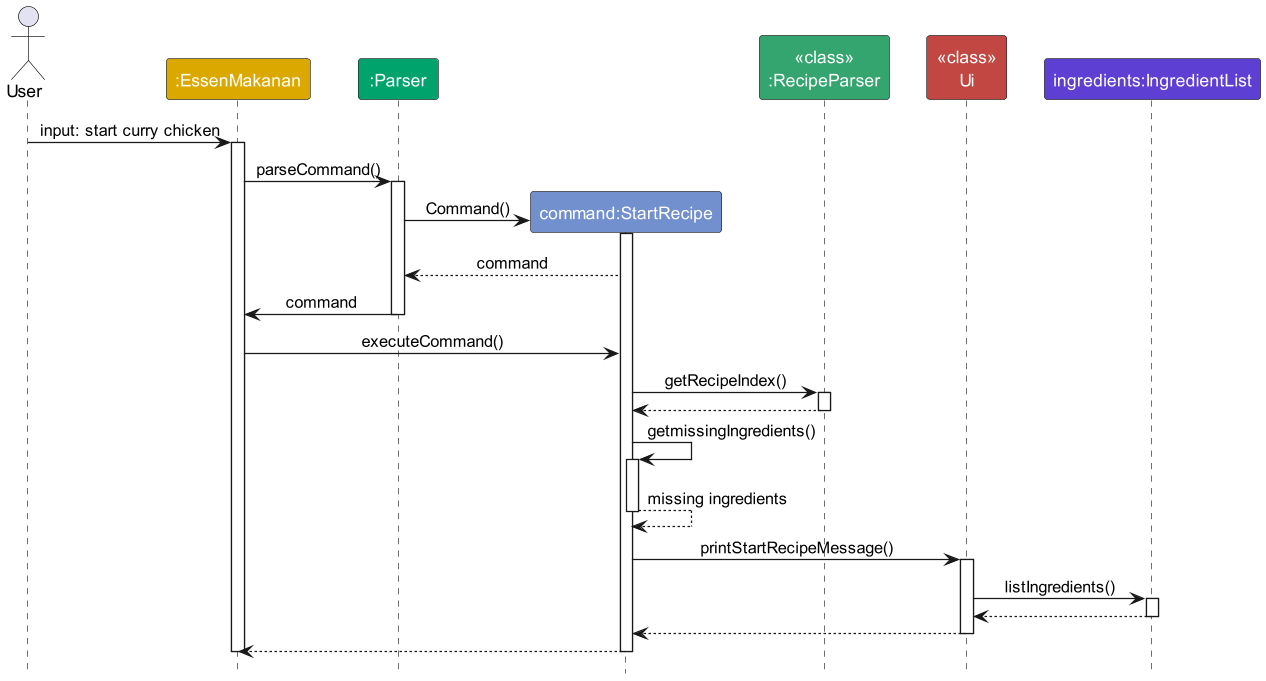
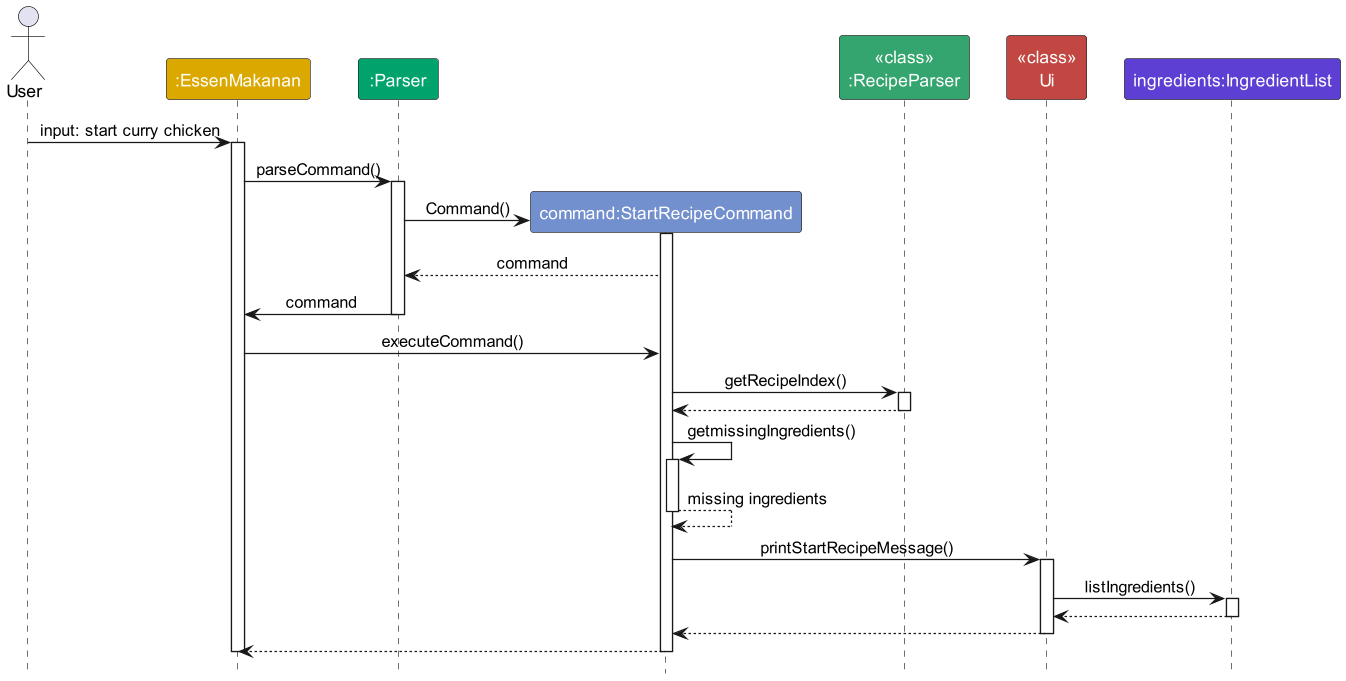
Add description to DG

diff --git a/docs/DeveloperGuide.md b/docs/DeveloperGuide.md
@@ -171,6 +171,34 @@ Example:
 
 ### View an ingredient feature
 
+The view ingredient feature is facilitated by the `ViewSpecificIngredientCommand` class. Users can input
+`view i/INGREDIENT_NAME` to trigger this command. Users will then be able to see the quantity and unit of specific ingredient stored.
+
+
+Note that `INGREDIENT_NAME` can be replaced with `INGREDIENT_ID`.
+
+
+- **Step 1**
+
+  Input will be sent from the main `EssenMakanan` class to the `Parser` to identify the command type.
+
+
+- **Step 2**
+
+  A new `ViewSpecificIngredientCommand` object will be created and will be sent back to main
+
+
+- **Step 3**
+
+  `commandObject#executeCommand()` will be called which in turn calls `IngredientParser#getIngredientIndex()` to get the index of the ingredient.
+  If the ingredient does not exist, an error will be thrown to inform the user that the ingredient does not exist.
+
+
+- **Step 4**
+
+  Finally `ViewSpecificCommand` will print `ingredient` object as there is a `toString` method within `Ingredient` class, allowing for `system.out.println(ingredient)`
+
+
 ![img_1.png](images/ViewSpecificIngredientSD.png)
 
 ### View Recipes feature
@@ -232,15 +260,68 @@ be executed as follows:
 ### Delete feature
 
 ### Start recipe feature
-![img_3.png](images/StartRecipeSD.png)
+
+The start recipe feature is used by the `StartRecipeCommand` class.
+
+To view if you have all ingredients needed to start on a recipe, use the following command
+`start recipe RECIPE_TITLE` or `start recipe RECIPE_ID`
+
+By calling `executeCommand` on the class, the steps will
+be executed as follows:
+* **Step1**
+
+  `StartRecipeCommand` will get the index of recipe by calling method `getRecipeIndex()` in the `Parser` class. 
+  This method will throw an error if the recipe entered is invalid or does not exist in the recipe database.
+
+
+* **Step2**
+
+  `StartRecipeCommand` will then call its own `getMissingIngredients()` method which will create 3 different array lists - `missingIngredeints`, `insufficientIngredients` and `diffUnitIngredients`. 
+  They account for ingredients that are missing, ingredients that you currently don't have enough of in your inventory, and ingredients that cannot be compared because of the difference in unit respectively.
+
+
+* **Step3**
+
+  `StartRecipeCommand` then call the static method `printRecipeMessage()` in `UI` class to print missing ingredients, ingredients that are insufficient, and ingredients of different units. 
+
+
+* **Step4**
+
+  `Ui` will call `listIngredients()` method in `IngredientList` class to print the 3 different array lists.
+
+![img_1.png](images/StartRecipeSD.png)
 
 ### Filter recipe feature
-The filter recipe feature is used by the `FilterRecipesCommand`
+
+The filter recipe feature is used by the `FilterRecipesCommand`.
+
+To filter recipes based on ingredients that are in it,
+use the command `filter recipe i/INGREDIENT_NAME [i/...]`, where `INGREDIENT_ID` can be used in place of `INGREDIENT_NAME` too.
+
+* **Step1**
+
+  `FilterRecipeCommand` will start a loop that filters all ingredients that the user has input
+
+
+* **Step2**
+
+  In the loop, the recipes will be filtered and be stored in `filteredRecipes` variable which is a `RecipeList` object.
+  `filteredRecipes` will contain all recipes that has the specified ingredient.
+
+
+* **Step3**
+  
+  The filteredRecipes will then be passed to the static `Ui` method `printFilteredRecipes()` to display all the recipes with the specified ingredient.
+
+
+* **Step4**
+
+  Steps 2 to 3 will repeat again until all ingredients in the input has been handled and executed. The loop will then stop and process exits the loop.
+
+
 
 ![img.png](images/FilterRecipesSD.png)
 
-
-{Describe the design and implementation of the product. Use UML diagrams and short code snippets where applicable.}
 
 
 ## Product scope
